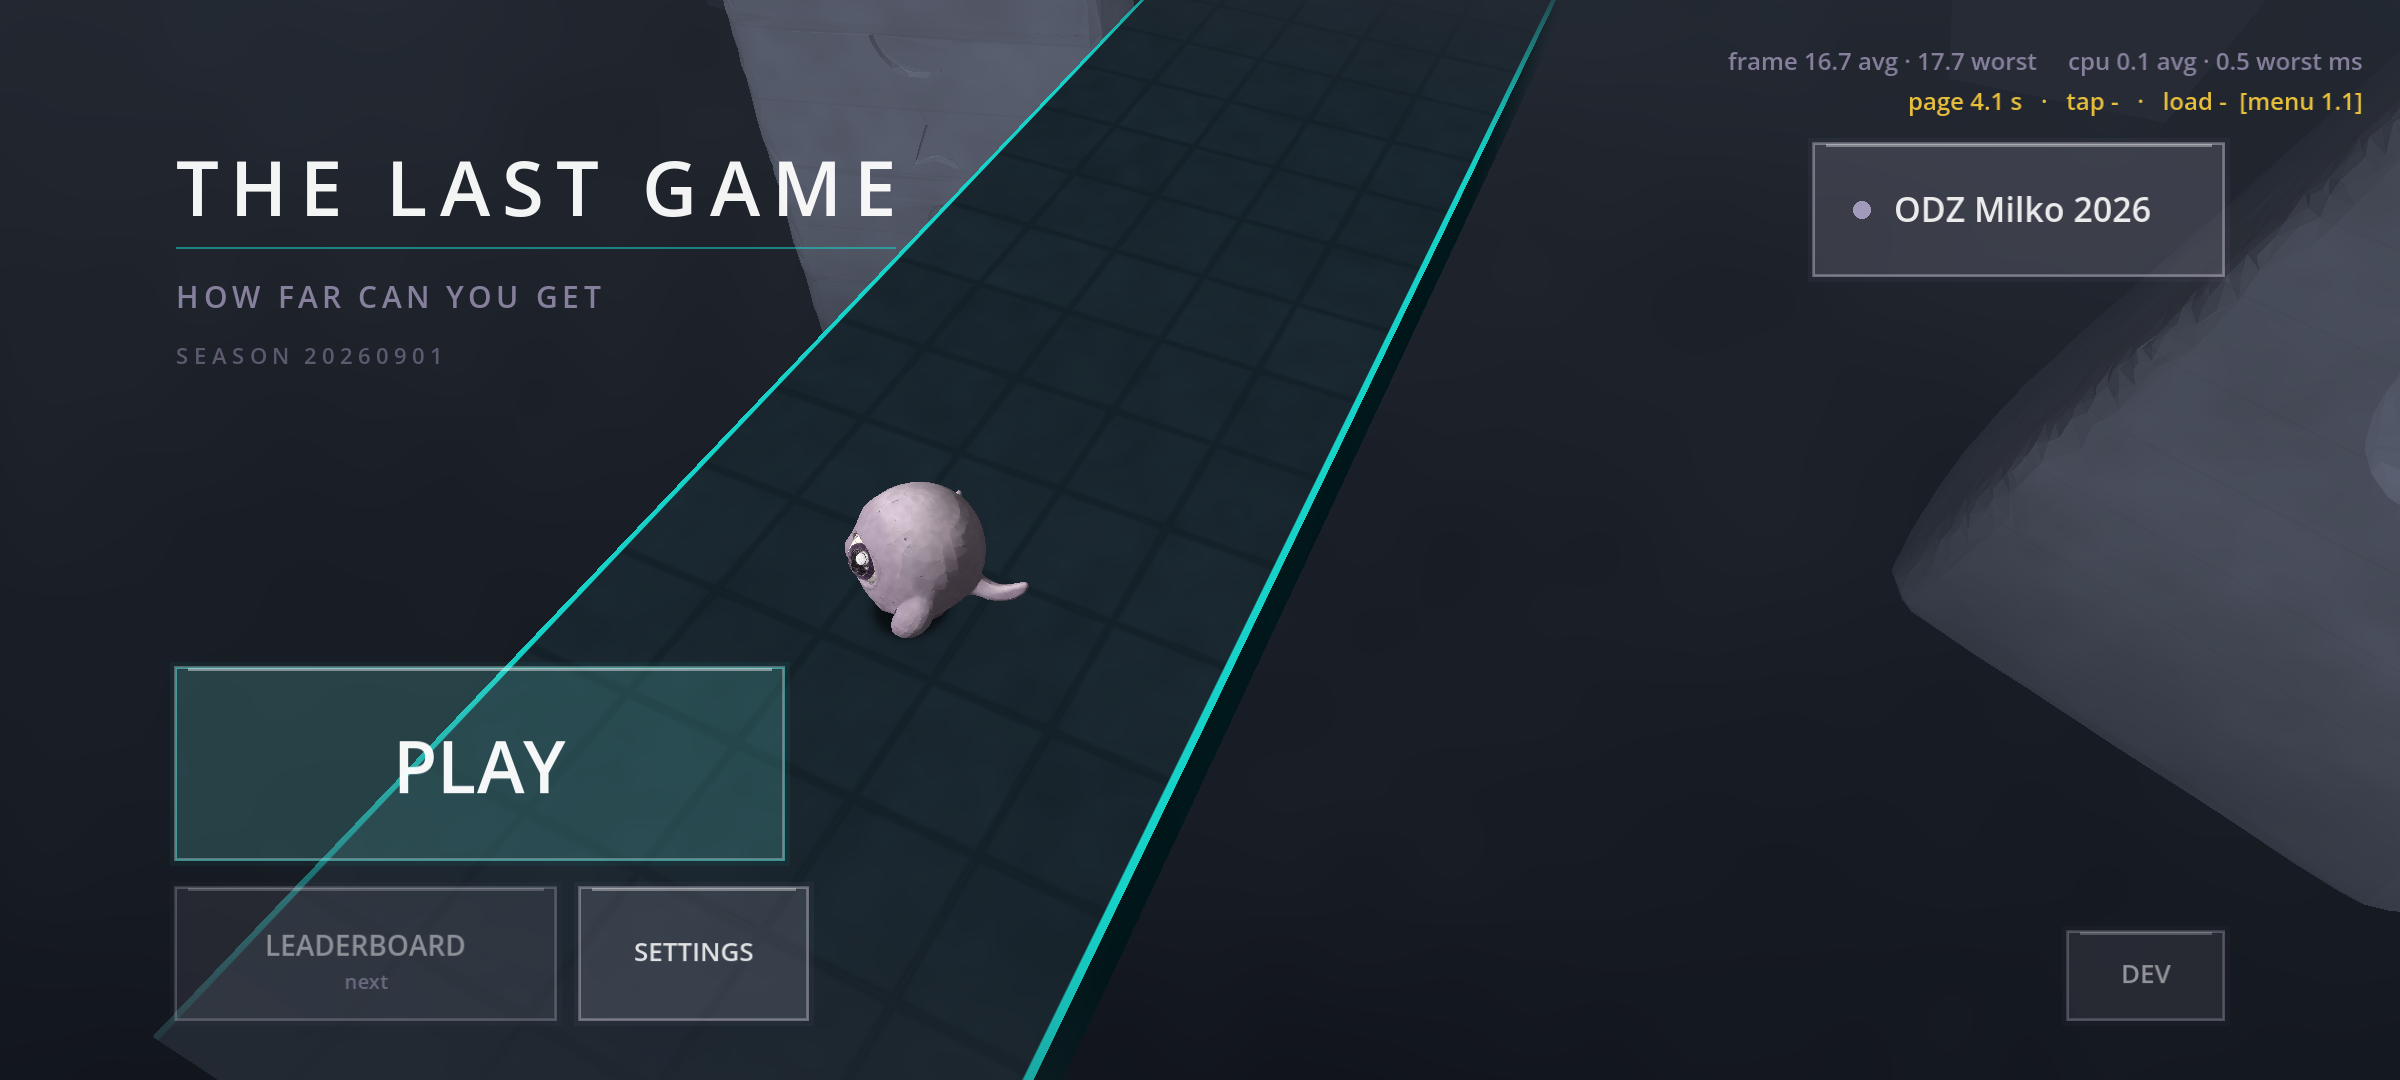
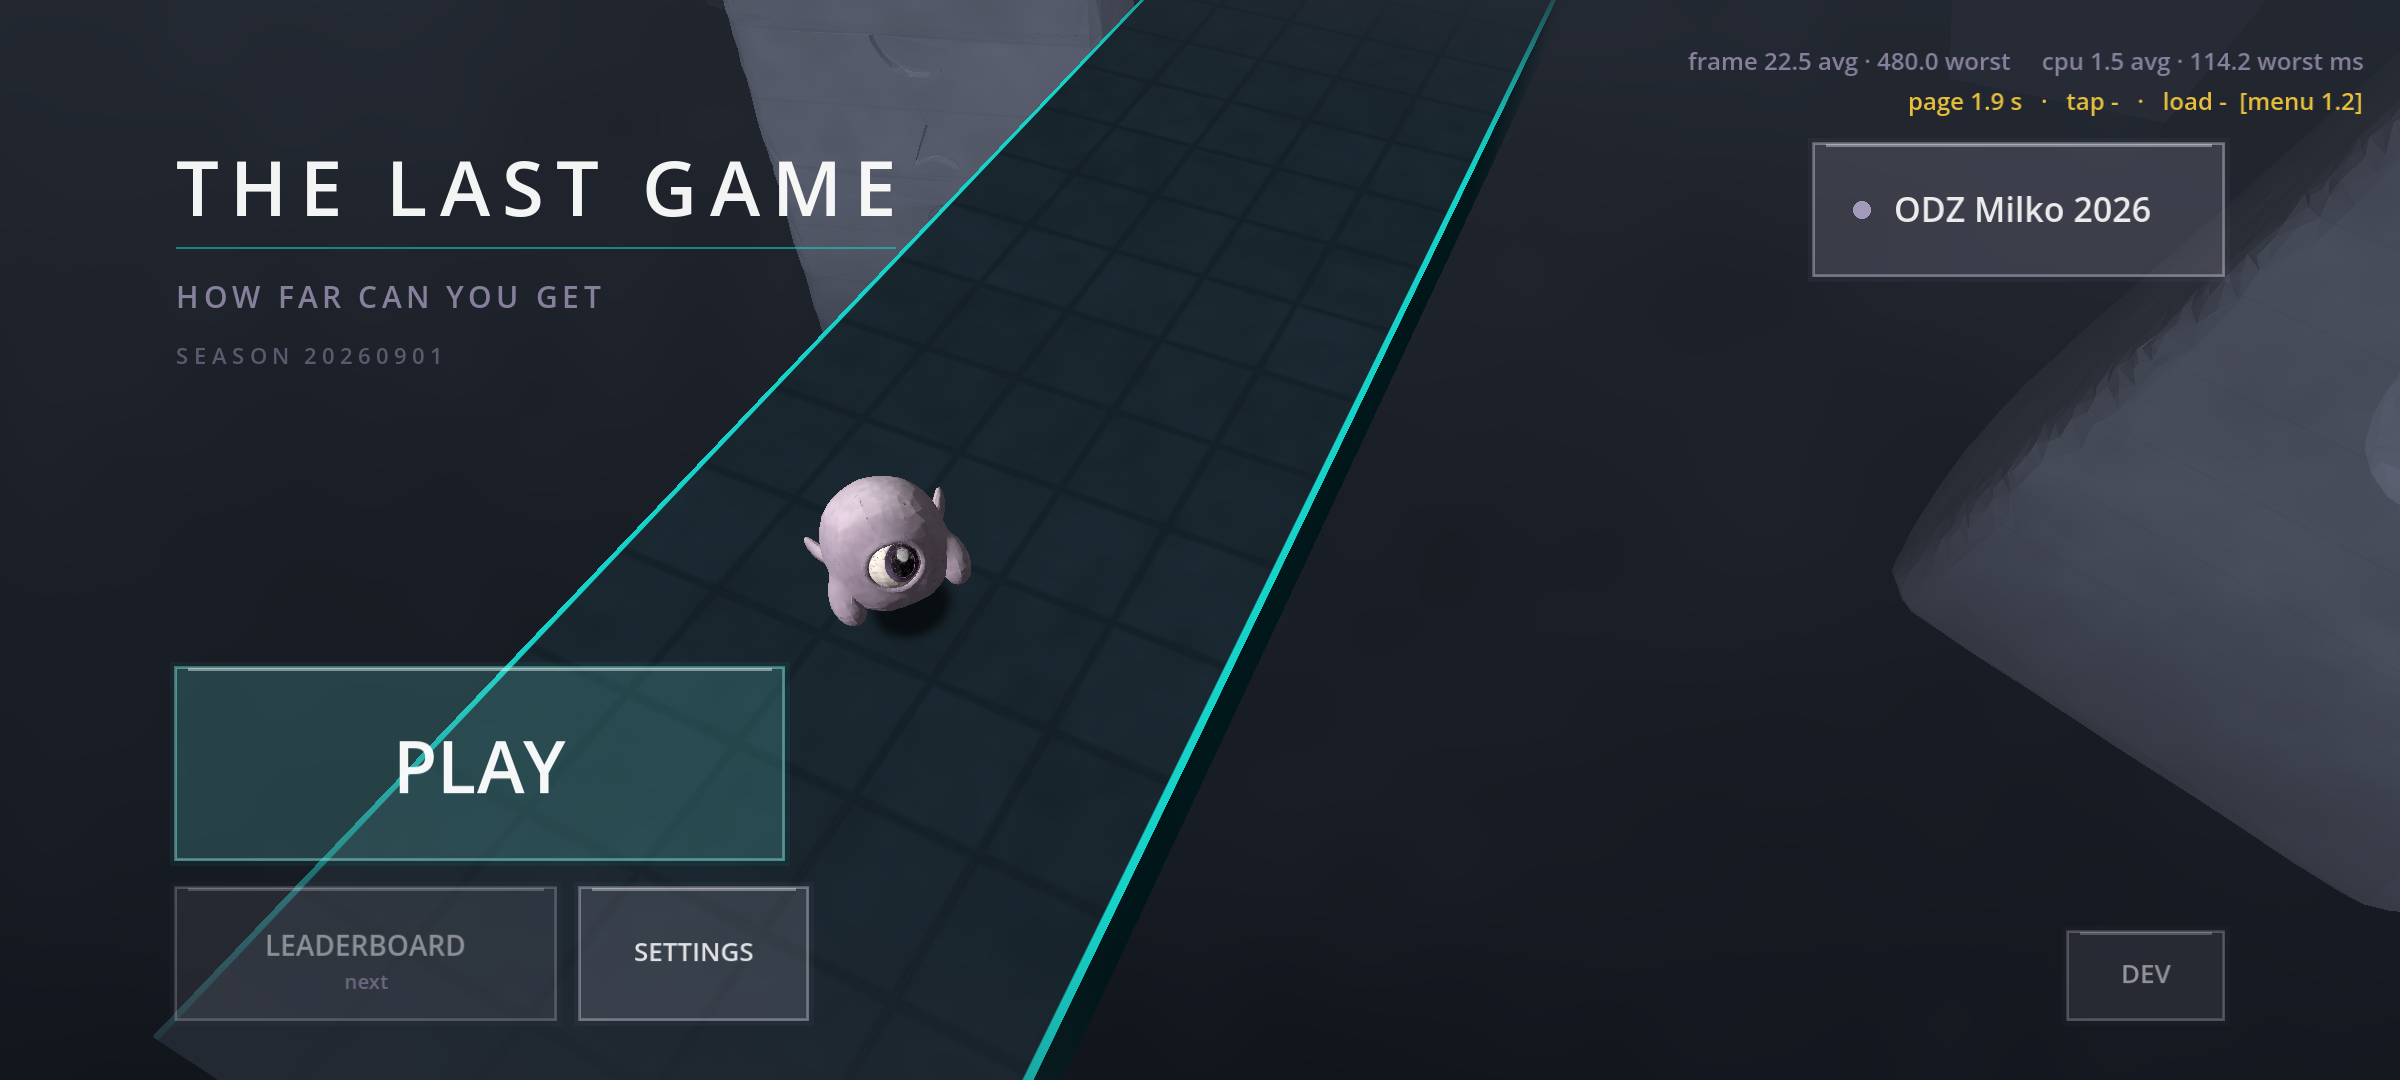
The menu's creature greets you: facing, looking around, hopping
Milko's one change before section 8. It stood in profile doing very
little; it now faces the lens when the menu opens, looks left and right
with the eye tracking and the body following, and hops about every six
seconds with the turn it already does and the dust puff it already
lands with. Breathing and the beat squash are untouched.

WHY IT STOOD IN PROFILE, which is worth knowing about: creature.gd
measures the angle to its look target in WORLD space and applies it as
a yaw in ITS OWN frame. In the run those are the same frame -- player3d
never rotates -- so it is exactly right there. The menu's creature IS
rotated, because it is turned to face the camera, so a world-space
target came back as a yaw off by that whole rotation: the body pointed
down the lens and the head turned 35 degrees off it. menu.gd now rotates
the target into the stand's frame before handing it over (_look_point),
and the creature does the same sum it does in the run. creature.gd is
untouched. play_glance() / _toward_camera() carry the same trap, which
is why the menu does not call them.

Everything moving is creature.gd's own code driven from here, as asked.
The body turn is the stand's yaw, the head and eye are set_look_target,
the hop is on_jump() over player3d.gd's own jump constants scaled by
HOP_SCALE 0.8 -- apex 1.2 units, 0.54 s airborne, so the one full turn
still lands on the ground -- and the landing squash, the footfall and
the dust are creature.gd noticing on_ground come back. No second
[…]

Changed region(s): [[0.3125, 0.4278, 0.4375, 0.5806], [0.7188, 0.0306, 0.9688, 0.0917]]

diff --git a/prototype/README.md b/prototype/README.md
@@ -4,6 +4,18 @@
 
 **The game is ONE ENDLESS RUN** (`PHASE_E_BRIEF_1_ENDLESS.md`): how far can you get. **Stage 1 (the run) is built and accepted. Stage 2 section 7 (the main menu) is BUILT and waiting for Milko's phone test; section 8 (the leaderboard) has NOT been started and must not be until he has seen the menu.** Everything below is newest first; this section is the whole state, the rest is the detail behind it.
 
+### 2026-09-22 (evening) — the menu's creature GREETS you
+
+Milko accepted the menu and asked for one change first: the creature was standing in profile doing very little. It now faces the lens, looks around, and hops. Screenshots: `docs/screenshots/e-menu.png` (facing, the moment the menu opens), `e-menu-idle-look.png` (looking away), `e-menu-idle-hop.png` (mid-hop), `e-menu-frametime.png` (the frame readout after a hop and a look-around).
+
+- **THE BUG THAT MADE IT STAND IN PROFILE, and it is worth knowing about.** `creature.gd` measures the angle to its look target in **world** space and then applies it as a yaw in **its own** frame. In the run those are the same frame — `player3d` never rotates — so it is exactly right there. The menu's creature IS rotated (it is turned to face the camera), so a world-space target came back as a yaw off by that whole rotation: the body pointed at the lens and the head turned 35° off it, which is the profile. Fixed in `menu.gd` (`_look_point()`): the target is rotated into the stand's frame before it is handed over, and the creature then does the same sum it does in the run. **`creature.gd` is untouched.** The same trap is waiting for anything else that rotates the creature — `play_glance()` / `_toward_camera()` have it too, which is why the menu does not call them.
+- **The greeting is creature.gd's own code, driven from the menu.** The body turn is the stand's yaw; the head and eye are `set_look_target()`; the hop is `on_jump()` over `player3d.gd`'s own jump constants at `HOP_SCALE` 0.8 (apex 1.2 units, 0.54 s in the air, so the one full turn still lands on the ground); the landing squash, the footfall and the dust puff are `creature.gd` noticing `on_ground` come back. **No second animation system, no new tween, no AnimationPlayer.** Breathing and the beat squash are untouched.
+- **The script is written out, not rolled at random** (`Menu.IDLE`): 18 seconds round, three hops — one about every six. Two hops in twenty seconds read as asleep; a hop every two reads as a fidget. Written out also means a screenshot lands on the same frame twice.
+- **The dust puff is prewarmed.** The landing's dust has a material of its own and the web renderer compiles a material the first time something using it is DRAWN — the standing rule at the top of `prewarm.gd`. Without it the FIRST hop's landing would be a hitch on the phone. `prewarm.gd` gained `warm_bursts()` (the burst half of `prepare()`, split out and called by it, so there is one copy) and the menu warms the dust as its fourth build step. Measured: the four build frames spike (418 / 125 / 523 / 113 ms on a cold cache) and **nothing spikes afterwards — no hitch at the first hop.**
+- **THE ANSWER TO MILKO'S QUESTION — does facing the camera show the melted underside or the tail prongs? No, and it is better than before.** Square to the lens the tail is BEHIND the body and hidden; the old three-quarter pose was what stuck it out to the side. Through the hop the spin is about the vertical axis plus a 32° tilt AWAY from the camera, so the belly never turns toward the lens: the frames across the whole airborne window show the back and the two rear flipper stubs, which is exactly the silhouette the game already shows on every jump. Checked frame by frame at 2400x1080 across take-off, apex and landing.
+- **Frame time: unchanged.** `frame 16.7 avg · 17.4 worst · cpu 0.2 avg · 0.5 worst` at 13 s, after a hop and a look-around (`e-menu-frametime.png`). The run still loads at `load 2.2 s [validate 0.0 (lap 0 shipped) · prewarm 1.9 (55 items, 70 frames)]` — 55 items, the same count as before the prewarm split, which is the proof that refactor changed nothing.
+- **`tools/shot_scene.gd` grew a burst** (`frames=N step=S`, one run instead of N) — that is how the hop was found. **Pass `--fixed-fps 60`**, the standing rule from `shot_walk.gd`: without it a frame's delta is however long that frame really took (a cold shader compile is half a second, saving a 2400x1080 PNG another tenth), so `at=` lands somewhere different every run and a moving thing cannot be aimed at. `e-menu-idle-hop.png` was taken that way, so **the frame-time readout in that one image is not a measurement** — `e-menu-frametime.png` is.
+
 ### 2026-09-22 (evening) — Stage 2 section 7: THE MAIN MENU
 
 **The game no longer opens into the run. It opens into `prototype/menu.tscn`** (`run/main_scene.phase_r`), and the run is what PLAY loads. Screenshots: `docs/screenshots/e-menu.png`, `e-menu-settings.png`.
